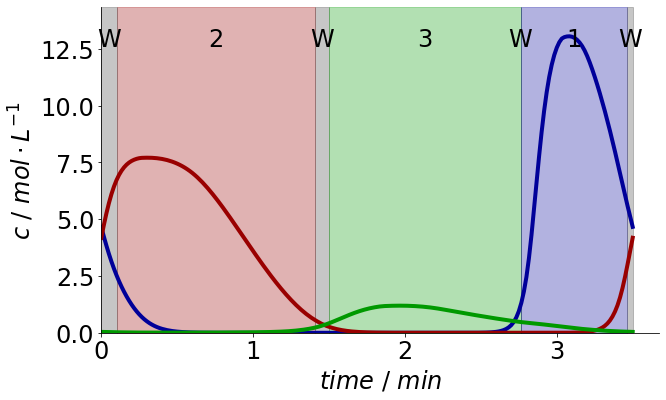
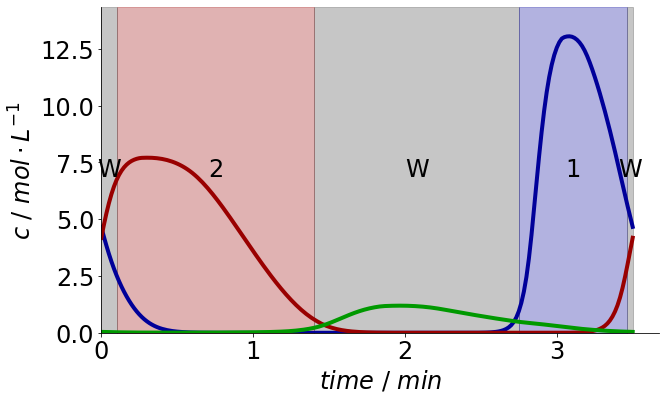
fixed purity requirements for fractionation figure

diff --git a/case_4/case_4_simulation.py b/case_4/case_4_simulation.py
@@ -105,5 +105,5 @@ if __name__ == '__main__':
     serial_ternary_frac = optimize_fractionation(
             serial_ternary_sim_results.chromatograms,
             serial_ternary.process_meta,
-            purity_required=0.95)
+            purity_required=[0.95, 0.95, 0])
     serial_ternary_frac.save(case_dir)
